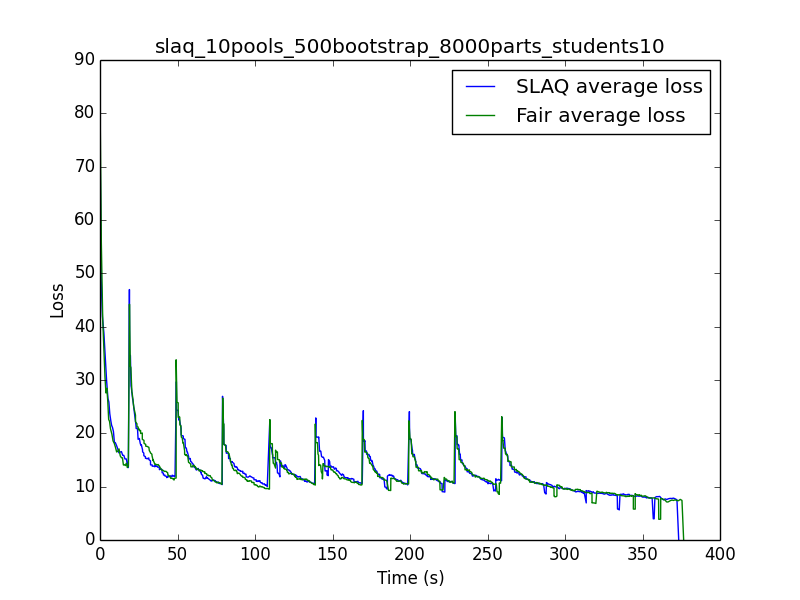
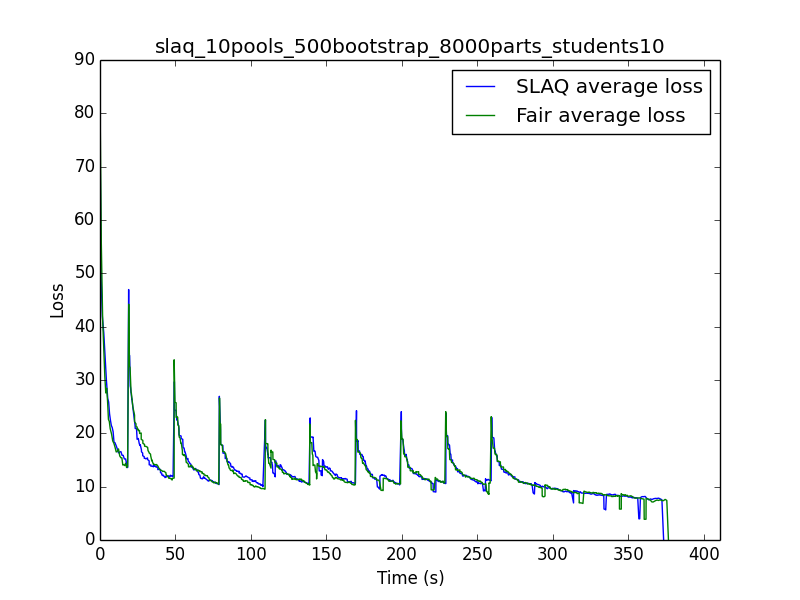
Plotting: scale x-axis properly

diff --git a/plotting/plot_concurrent.py b/plotting/plot_concurrent.py
@@ -99,14 +99,16 @@ def plot(slaq_name):
   plt.savefig("%s/concurrent_delta_loss.png" % slaq_name)
 
   # Plot average overall loss
-  (avg_slaq_times, avg_slaq_losses) = average_loss(slaq_times, slaq_losses)
-  (avg_fair_times, avg_fair_losses) = average_loss(fair_times, fair_losses)
+  (slaq_times, avg_slaq_losses) = average_loss(slaq_times, slaq_losses)
+  (fair_times, avg_fair_losses) = average_loss(fair_times, fair_losses)
   fig = plt.figure()
   ax = fig.add_subplot(1, 1, 1)
-  ax.plot(avg_slaq_times, avg_slaq_losses, "-", label="SLAQ average loss")
-  ax.plot(avg_fair_times, avg_fair_losses, "-", label="Fair average loss")
+  ax.plot(slaq_times, avg_slaq_losses, "-", label="SLAQ average loss")
+  ax.plot(fair_times, avg_fair_losses, "-", label="Fair average loss")
   ax.set_xlabel("Time (s)")
   ax.set_ylabel("Loss")
+  xlim = min(800, max(slaq_times) * 1.1)
+  ax.set_xlim([0, xlim])
   ax.legend(loc = "upper right")
   ax.set_title(slaq_name)
   plt.savefig("%s/concurrent_avg_loss.png" % slaq_name)
